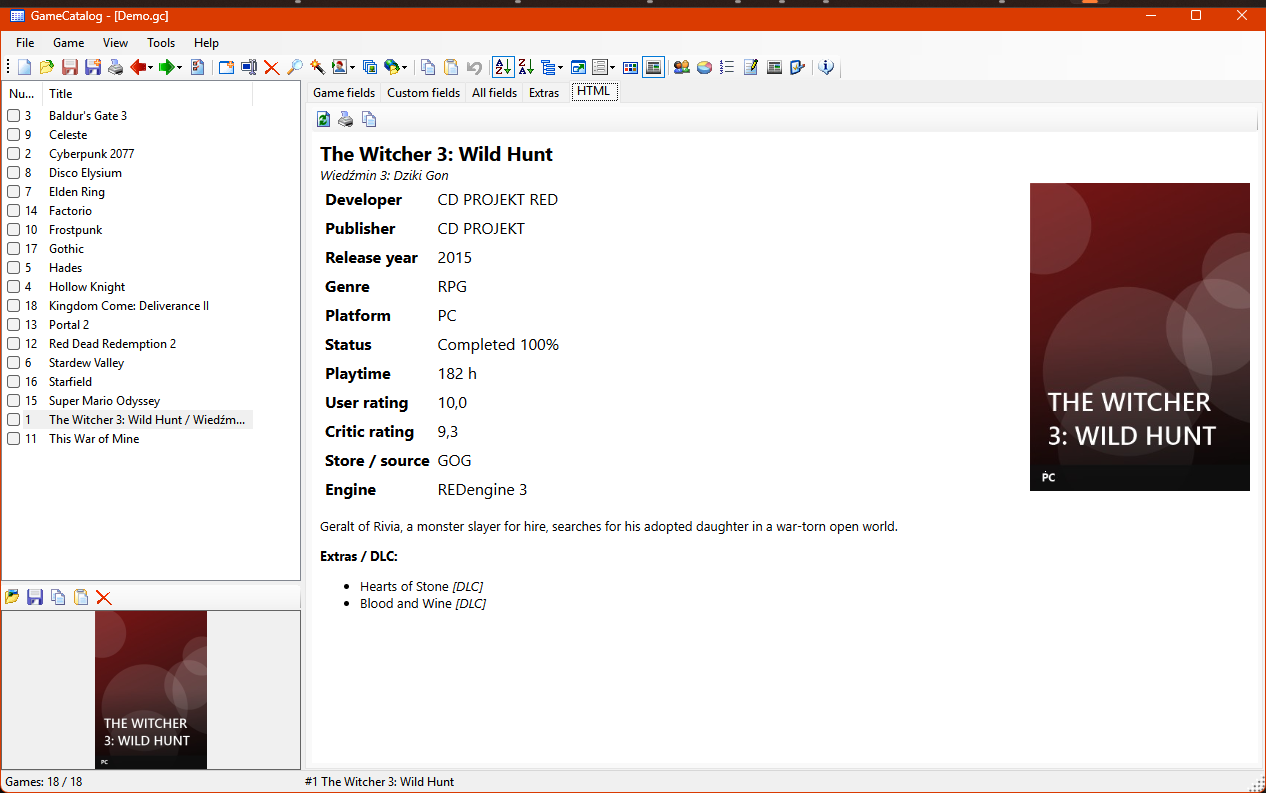
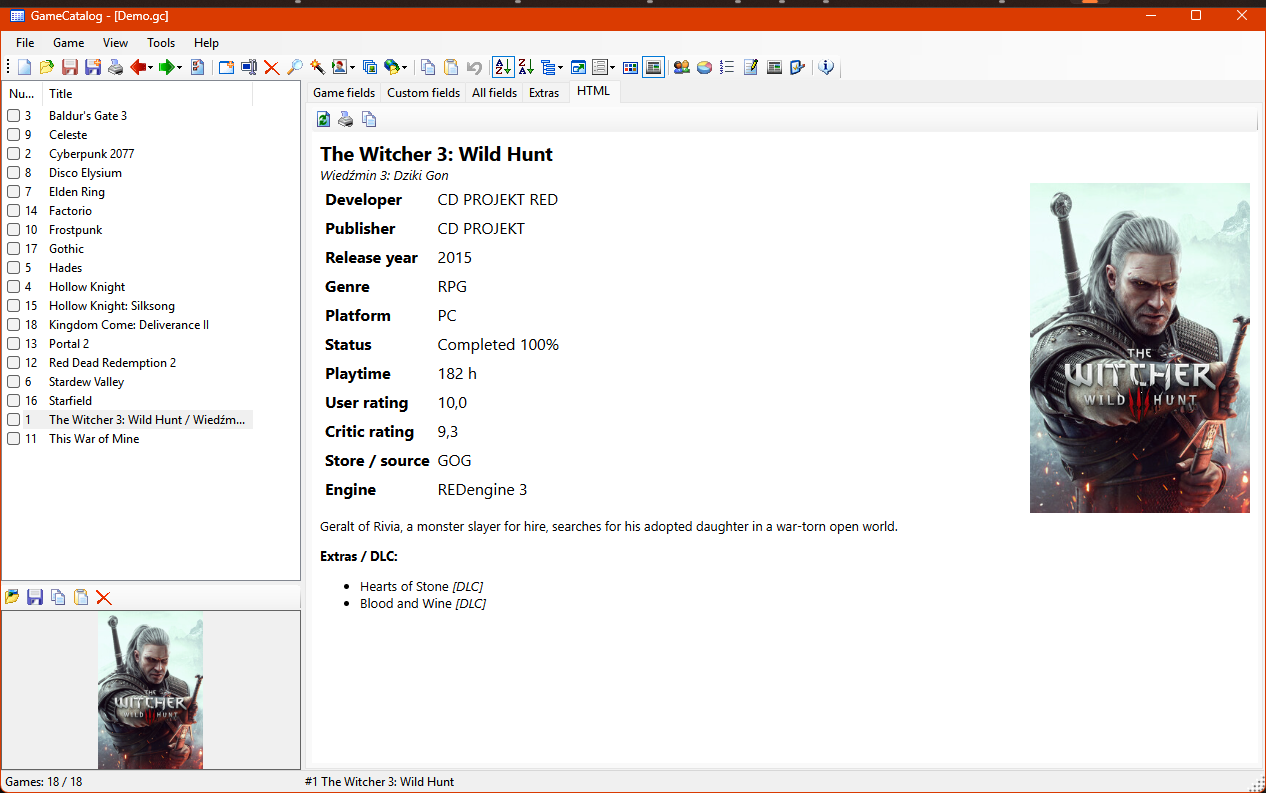
docs: README screenshots with real game covers

Changed region(s): [[0.8009, 0.2119, 1.0, 0.6658], [0.0616, 0.7566, 0.1848, 0.9685], [0.0, 0.3632, 0.154, 0.5145]]

diff --git a/README.md b/README.md
@@ -22,7 +22,7 @@ Interfejs po polsku i angielsku (domyślnie język systemu).*
 |---|---|
 | ![HTML game card](docs/images/game-card.png) | ![Thumbnails](docs/images/thumbnails.png) |
 
-<sub>Demo catalog; the covers are generated placeholders.</sub>
+<sub>Demo catalog. Game covers and titles are trademarks of their respective publishers, shown for illustration only.</sub>
 
 ## Features
 
